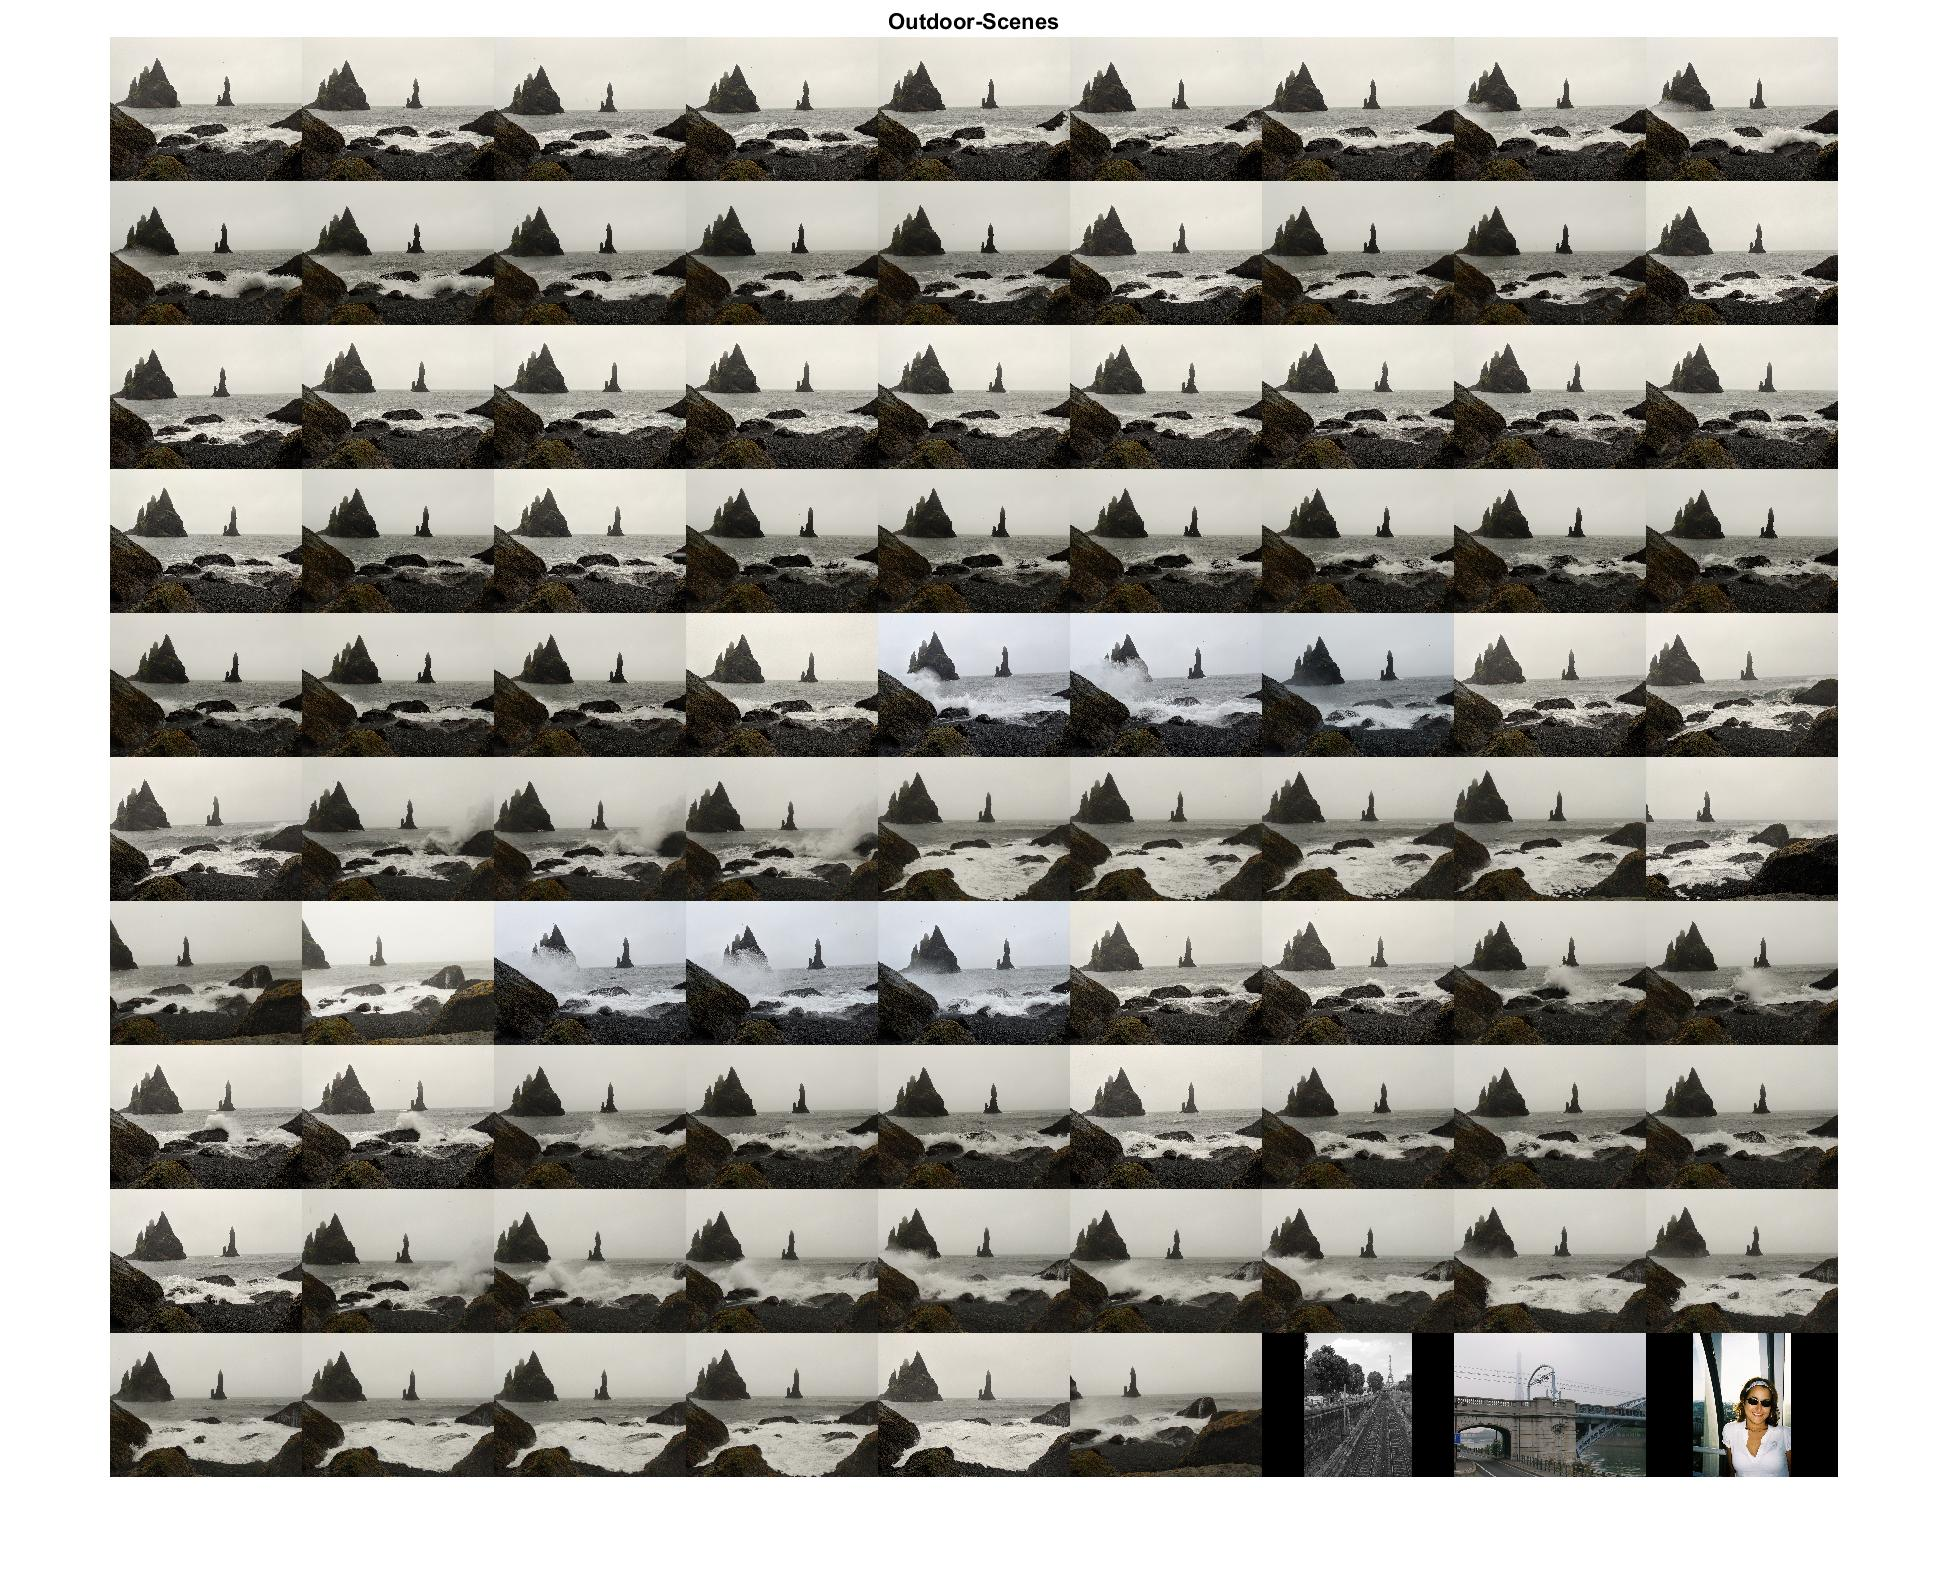
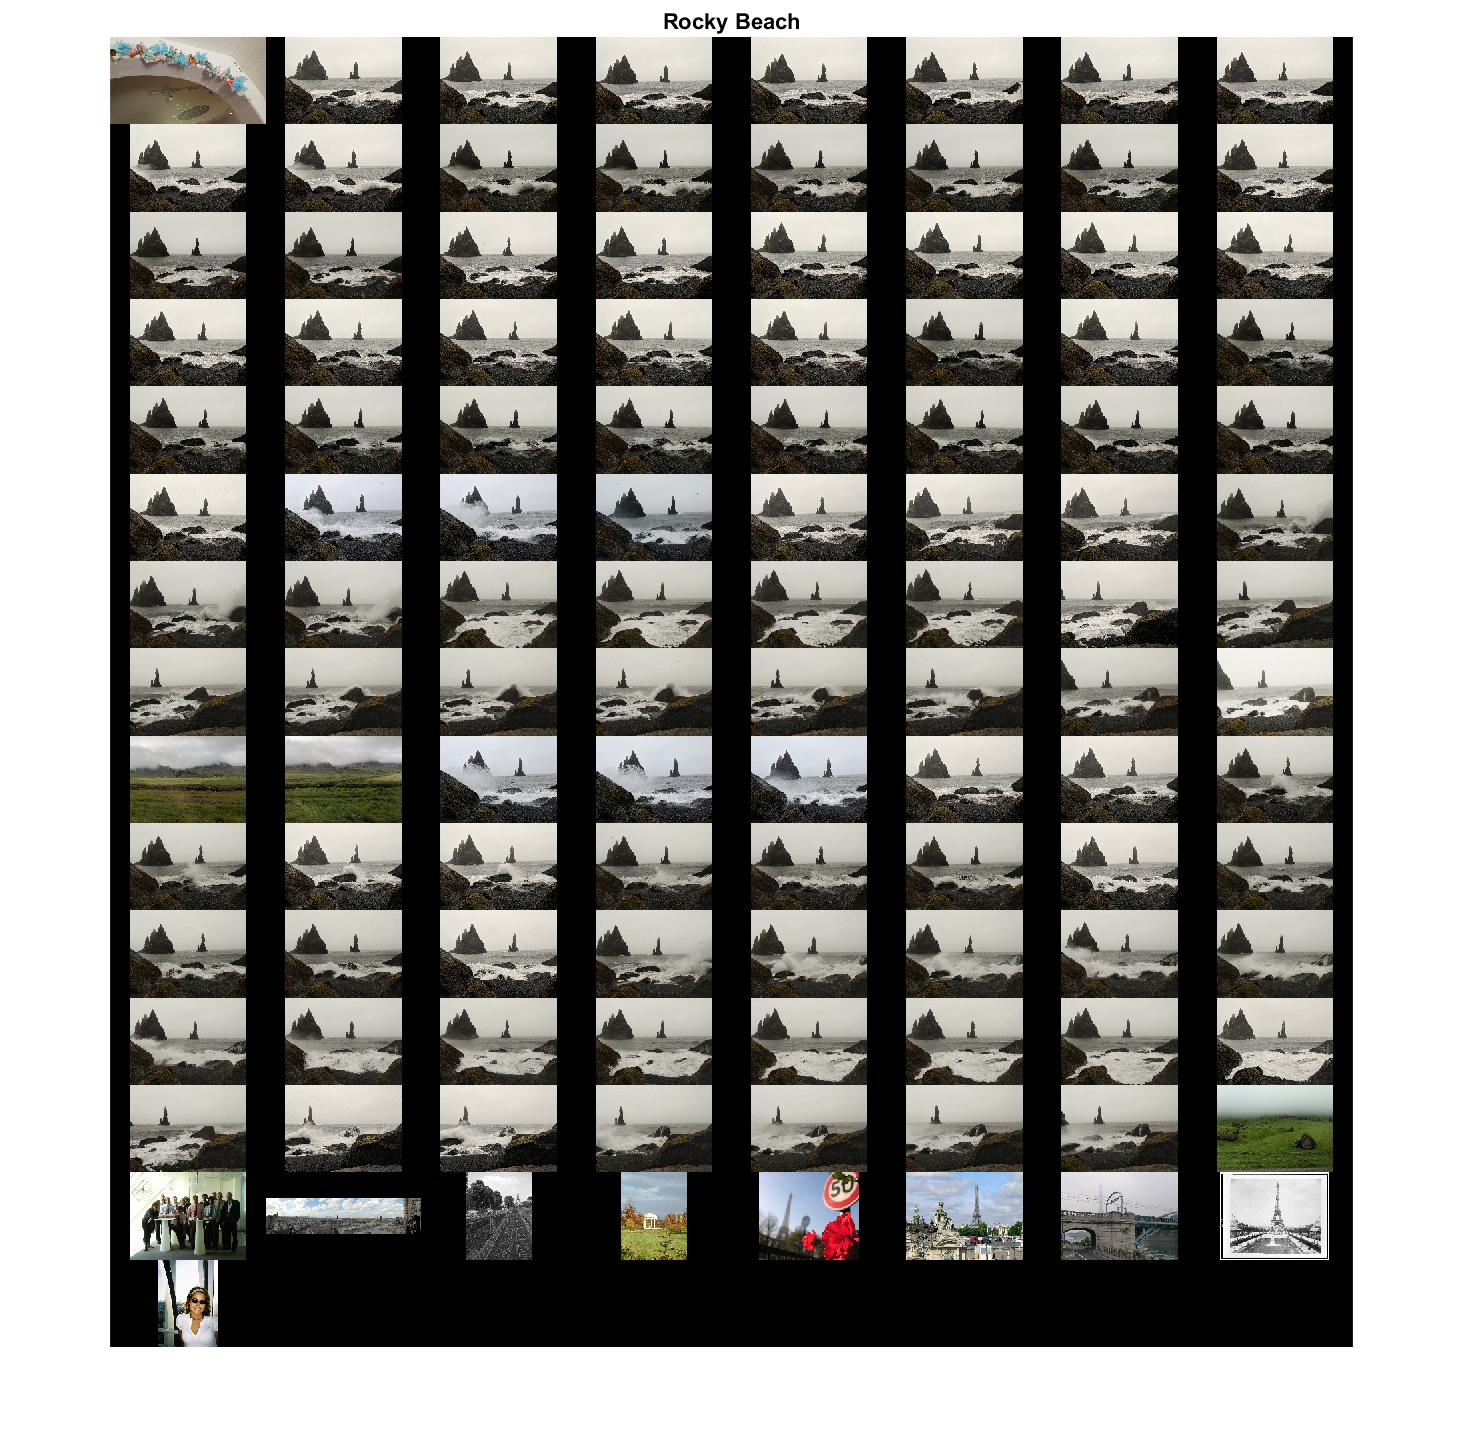
clean output folder

diff --git a/main.m b/main.m
@@ -42,14 +42,14 @@ while choice ~= 1
               
        case 5
            % Display sets
-           choice2 = menu('Choose an option','Display Outdoor Scenes', 'Display Portraits', 'Display Text Documents', ...
-    'Display Cars', 'Display Skies', 'Display Flowers'); 
+           choice2 = menu('Choose an option', 'Rocky Beach', 'Grass-like Hills', 'Green Mountains', ...
+                    'Dark Images (black & white and night time)', 'Shrubbery'); 
            switch choice2
                case 0
                     disp('Error - please choose one of the options.')
            % Display a menu and get a choice
-                    choice2 = menu('Choose an option', 'Display Outdoor Scenes', 'Display Portraits', 'Display Text Documents', ...
-                    'Display Cars', 'Display Skies', 'Display Flowers');
+                    choice2 = menu('Choose an option', 'Rocky Beach', 'Grass-like Hills', 'Green Mountains', ...
+                    'Dark Images (black & white and night time)', 'Shrubbery');
                case 1
                    % display outdoor scenes
                    prompt = 'Save output image? Yes or No: ';
@@ -59,7 +59,7 @@ while choice ~= 1
                    else
                        save_output = false;
                    end
-                   plot_title = 'Outdoor-Scenes';
+                   plot_title = 'Rocky Beach';
                    display_cluster(sorted_imgs{1}, plot_title, save_output)
                case 2
                    % display portraits
@@ -70,7 +70,7 @@ while choice ~= 1
                    else
                        save_output = false;
                    end
-                   plot_title = 'Portraits';
+                   plot_title = 'Grass-like Hills';
                    display_cluster(sorted_imgs{2}, plot_title, save_output)
                case 3
                    % display text documents
@@ -81,9 +81,9 @@ while choice ~= 1
                    else
                        save_output = false;
                    end
-                   plot_title = 'Text';
+                   plot_title = 'Green Mountains';
                    display_cluster(sorted_imgs{3}, plot_title, save_output)
-                   choice3 = menu('Choose an option','Display Skies', "Back to main menu"); 
+                   choice3 = menu('Choose an option','Classify on including Skies', "Back to main menu"); 
                    switch choice3
                        case 0
                            disp('Error - please choose one of the options.');
@@ -116,14 +116,14 @@ while choice ~= 1
                    else
                        save_output = false;
                    end
-                   plot_title = 'Images with Cars';
+                   plot_title = 'Dark Images (black & white and night time)';
                    display_cluster(sorted_imgs{4}, plot_title, save_output)
                    choice3 = menu('Choose an option','Display Skies', "Back to main menu"); 
                    switch choice3
                        case 0
                            disp('Error - please choose one of the options.');
                            % Display a menu and get a choice
-                           choice3 = menu('Choose an option','Display Skies', "Back to main menu");
+                           choice3 = menu('Choose an option','Display black & white vs dark clusters', "Back to main menu");
                        case 1
                            %adv sort
                            sorted_skies = sort_images_adv(sorted_imgs{4}, "bw")
@@ -134,9 +134,9 @@ while choice ~= 1
                            else
                                save_output = false;
                            end
-                           plot_title = 'Skies';
+                           plot_title = 'black & white';
                            display_cluster(sorted_skies{1}, plot_title, save_output)
-                           plot_title = 'No Skies';
+                           plot_title = 'night time';
                            display_cluster(sorted_skies{2}, plot_title, save_output)
 
                        case 2
@@ -152,19 +152,8 @@ while choice ~= 1
                    else
                        save_output = false;
                    end
-                   plot_title = 'Images with Skies';
+                   plot_title = 'Shrubbery';
                    display_cluster(sorted_imgs{5}, plot_title, save_output)
-               case 6
-                   % display flowers
-                   prompt = 'Save output image? Yes or No: ';
-                   save_answer = input(prompt, "s");
-                   if strcmp(save_answer, 'Yes')
-                       save_output = true;
-                   else
-                       save_output = false;
-                   end
-                   plot_title = 'Images with Flowers';
-                   display_cluster(sorted_imgs{6}, plot_title, save_output)
            end
    end
    % Display menu again and get user's choice
